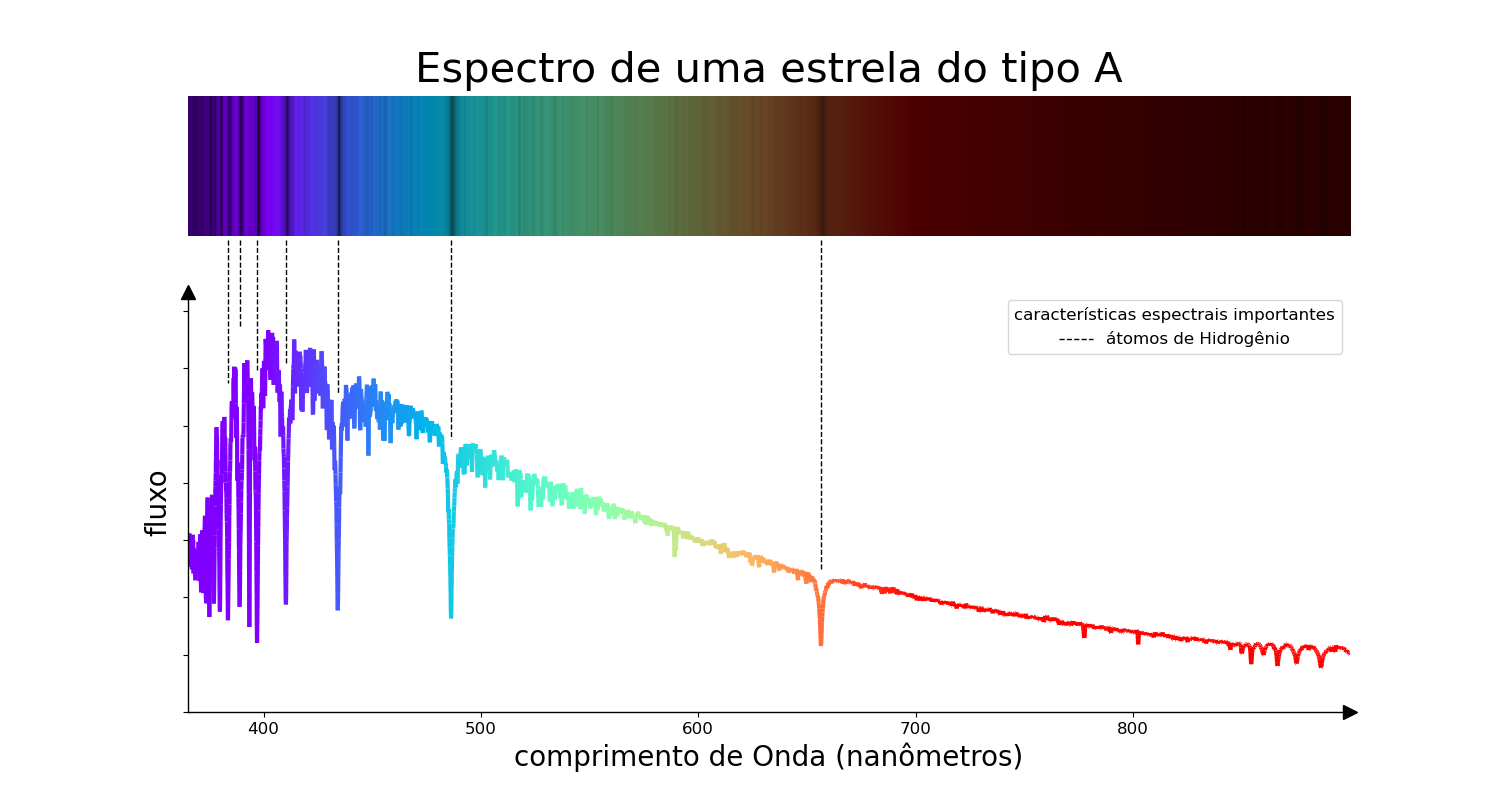
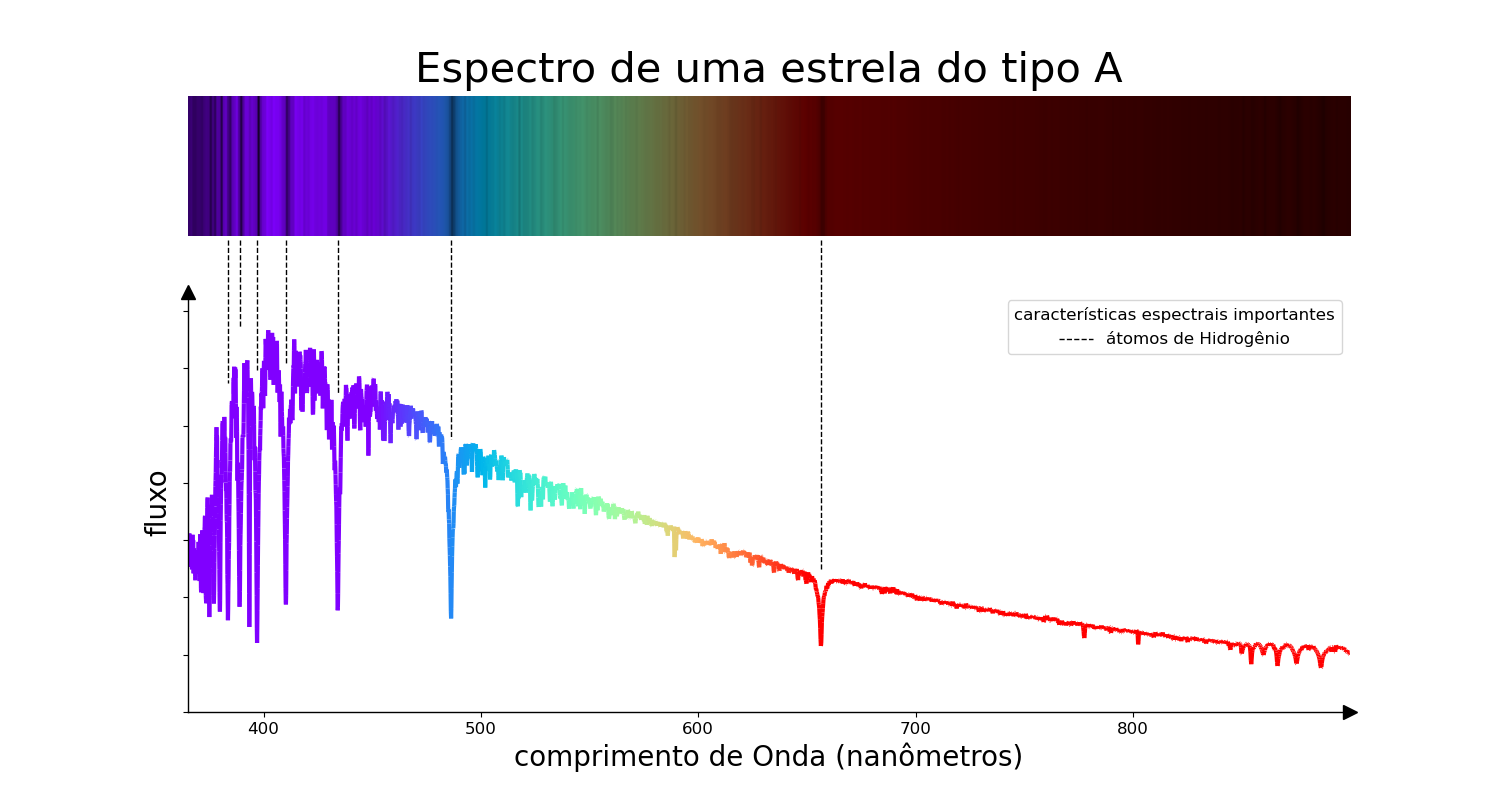
changed red and blue end of the colour spectrum
now better matches colours humans see in the visible zone

diff --git a/spectral_types_plot.py b/spectral_types_plot.py
@@ -91,8 +91,8 @@ text_list_en=translations_dicts['en']
 
 lambda_min=365
 lambda_max=900
-lambda_red=700
-lambda_blue=400
+lambda_red=650
+lambda_blue=450
 bounds_box=[0.1,0.9,0.1,0.9]
 bounds_box_bands=[0.3,0.9,0.1,0.9]
 bounds_box_bands_offset=0.13
@@ -118,7 +118,7 @@ image_list=[]
 x_list=[]
 y_list=[]
 for row in data_table:
-    index=row['spectrum_selection'] #0=O, 1=B, 2=A, 3=F, 4=G, 5=K, 6=M
+    index=row['spectrum_selection'] #0=O, 1=B, 2=A, 3=F, 4=G, 5=K, 6
     x_tmp=0.1*row['WAVE']
     y_tmp=row['FLUX']
     mask_tmp=row['MASK']
